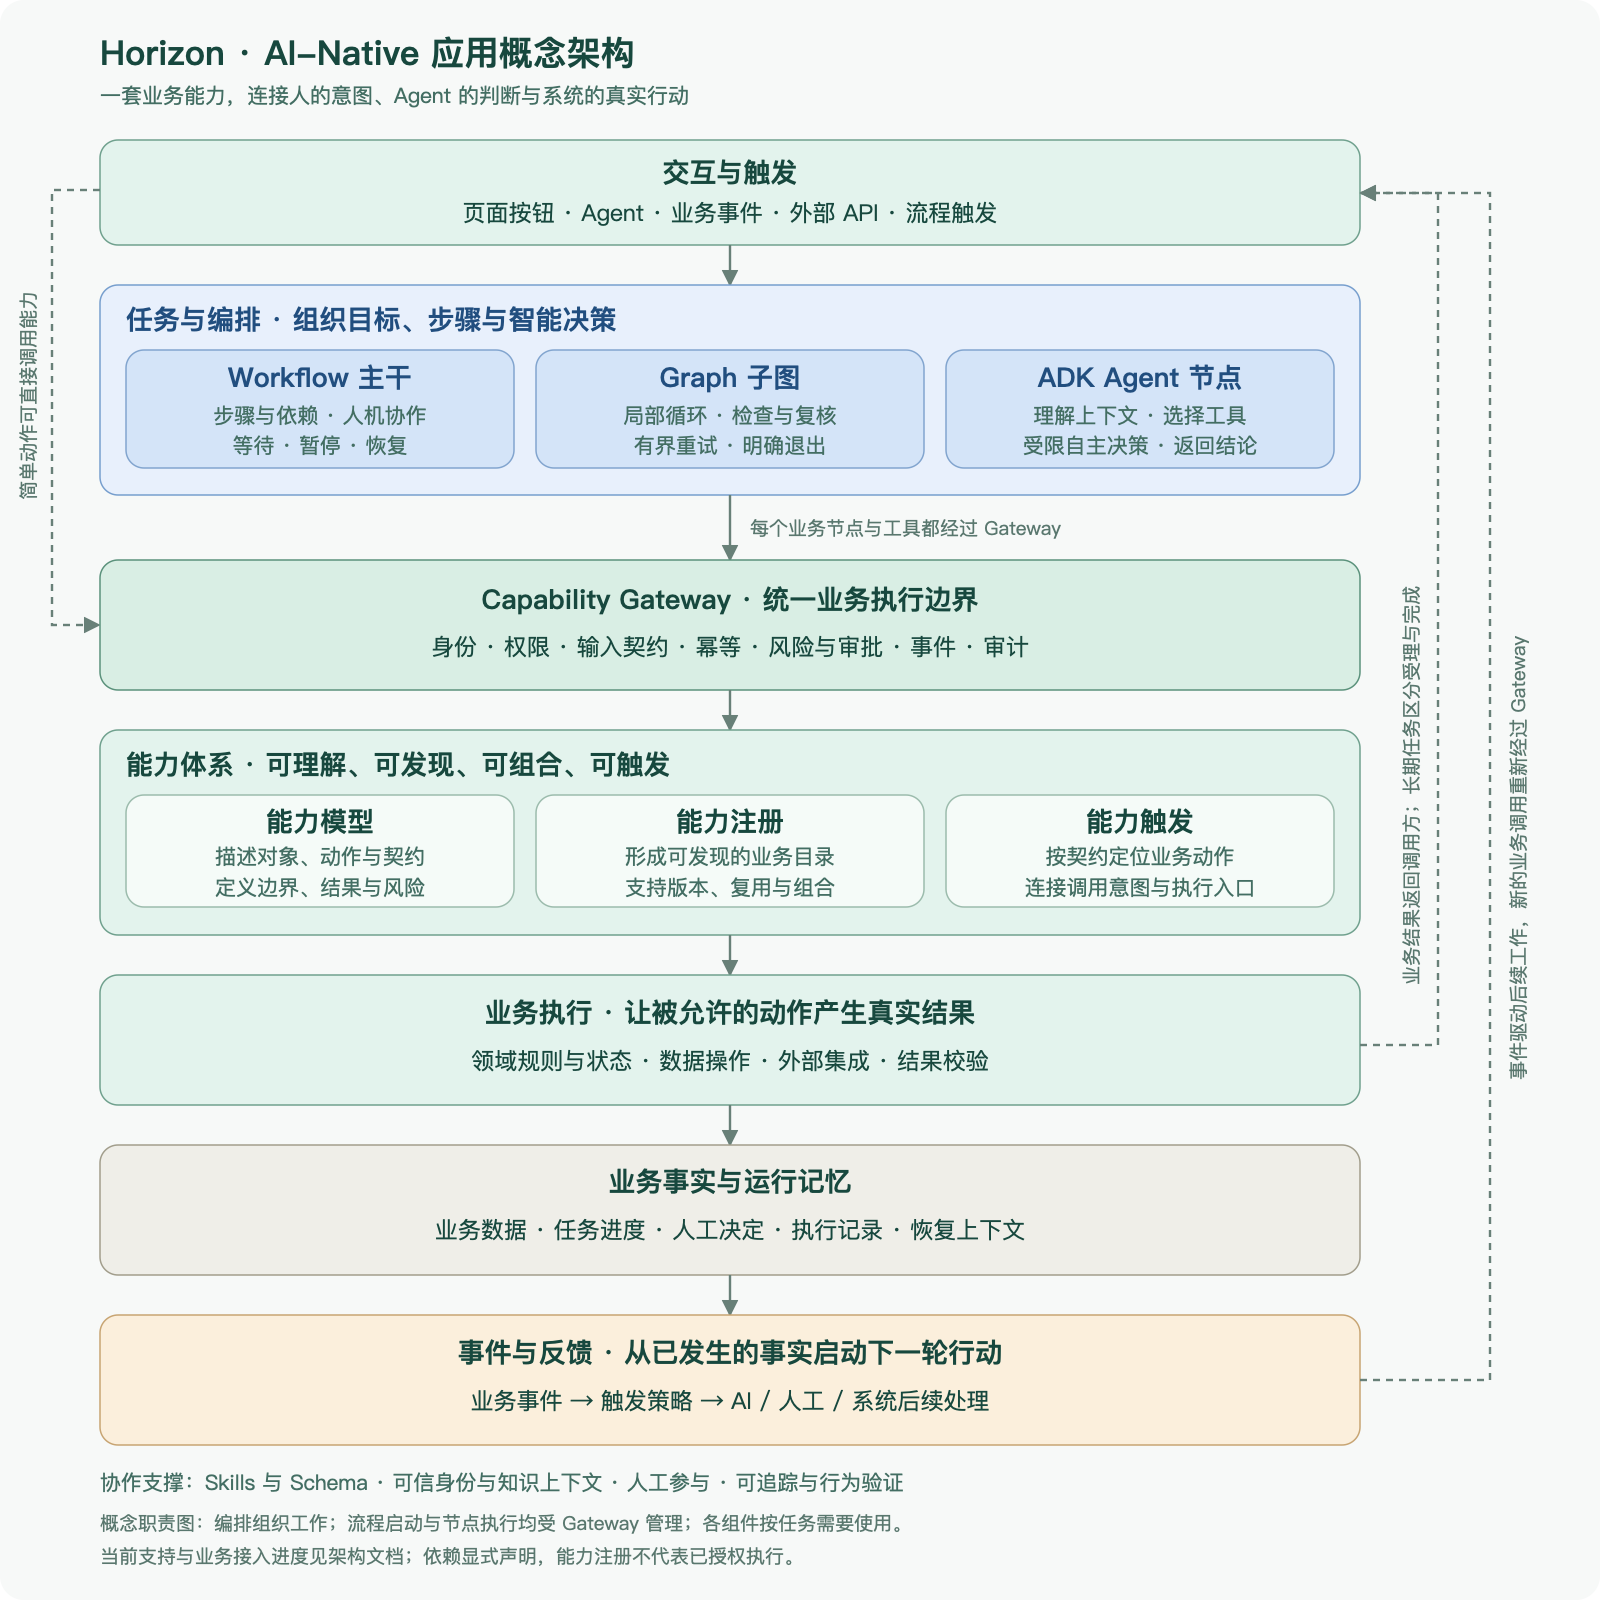
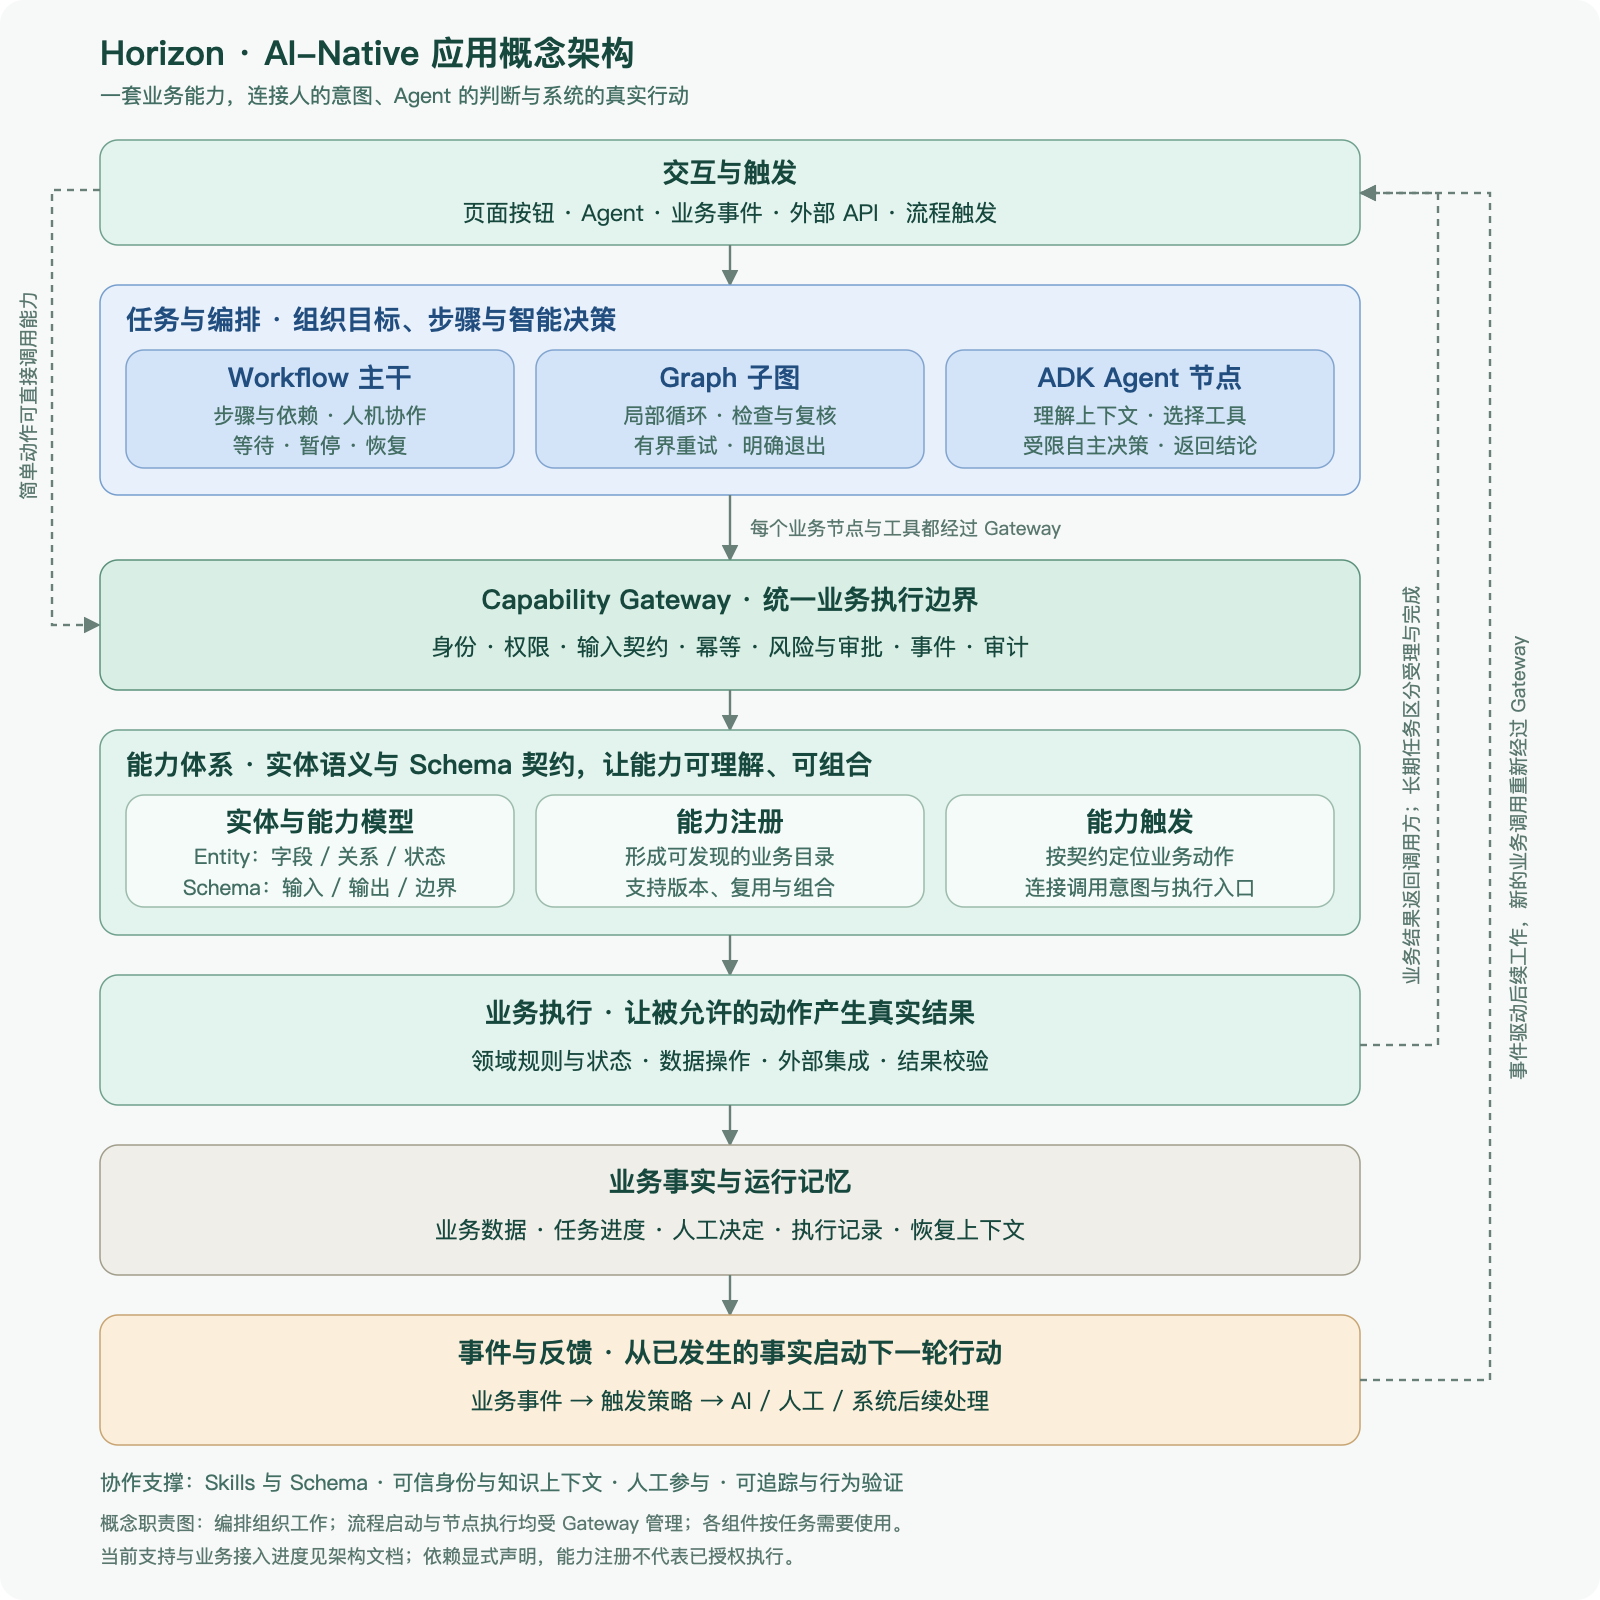
docs: strengthen AI-native concepts with entity schemas and SVG diagrams

Changed region(s): [[0.125, 0.4688, 0.5625, 0.5625]]

diff --git a/docs/architecture.md b/docs/architecture.md
@@ -10,6 +10,7 @@
 
 - 任务与编排层使用 Eino Workflow、Graph、ADK，分别组织业务主干、局部循环与受限决策。
 - Gateway 是统一执行边界；能力体系在其后展开为模型、注册和触发。模型描述契约，注册使能力可发现并绑定执行者，触发将当前调用关联到已注册动作。
+- Entity 与 Schema 是这套能力语言的核心：实体声明对象字段、关系与状态，Schema 描述能力输入输出和流程结构。实体需要对照迁移校验，操作参数按具体动作投影；结构校验不替代权限与业务规则。README 的关系图、任务闭环、调用时序和审核分支图分别解释这些概念如何协作。
 - 业务执行产生结果，持久化保存业务事实和恢复状态；事件异步驱动后续 Agent 或专用业务路径。
 - 编码 Skills、Schema、知识上下文和验证是横向支撑，不作为每次用户访问必须顺序经过的阶段。
 
